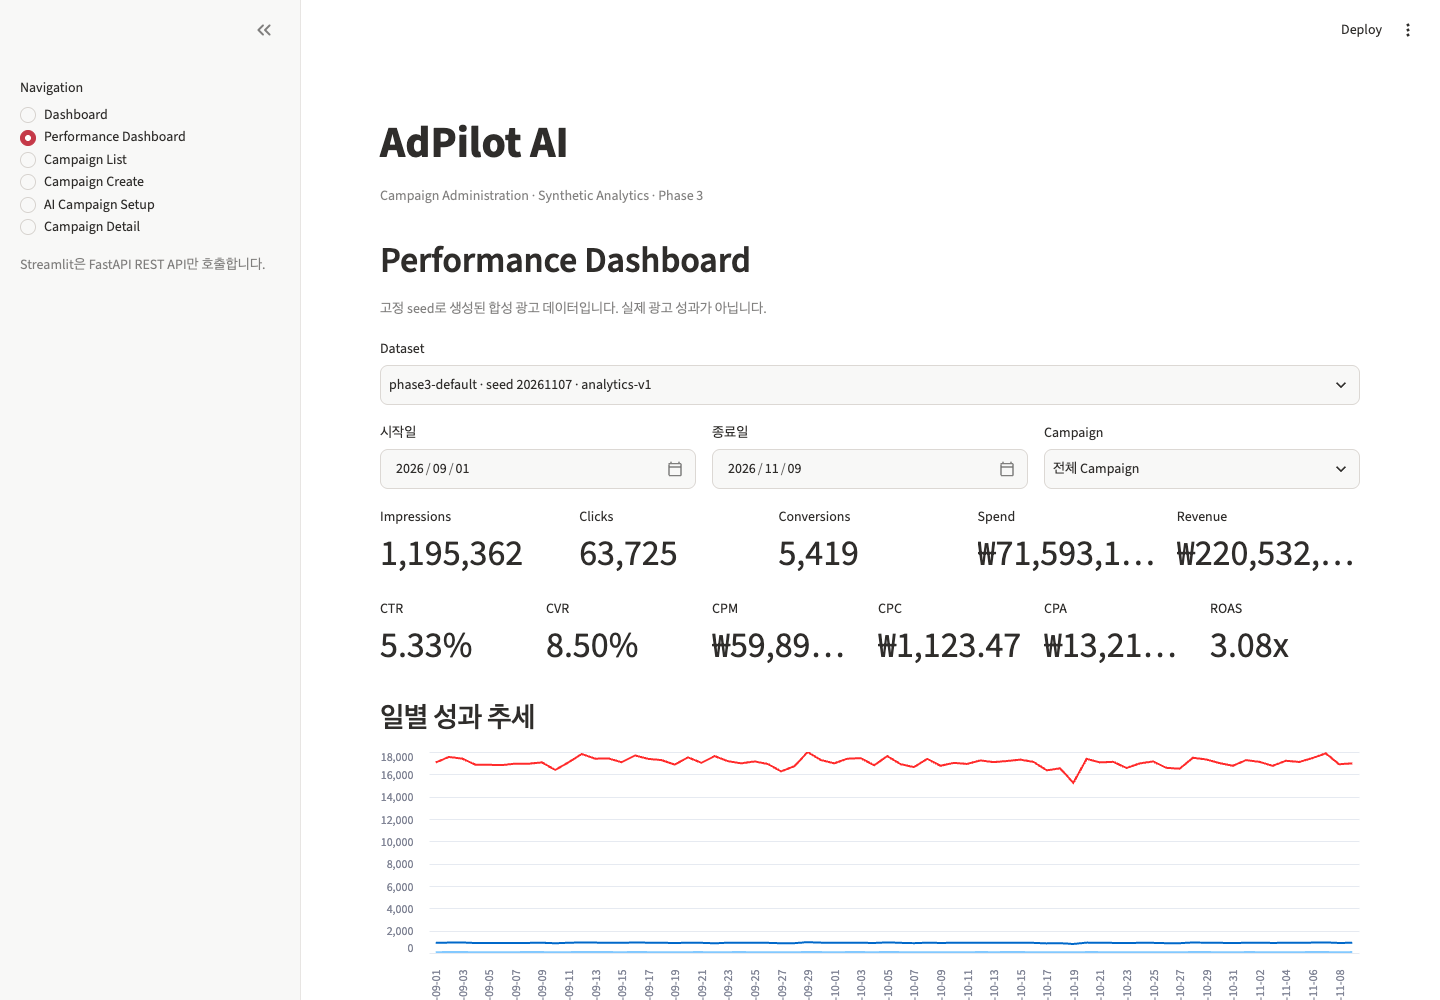
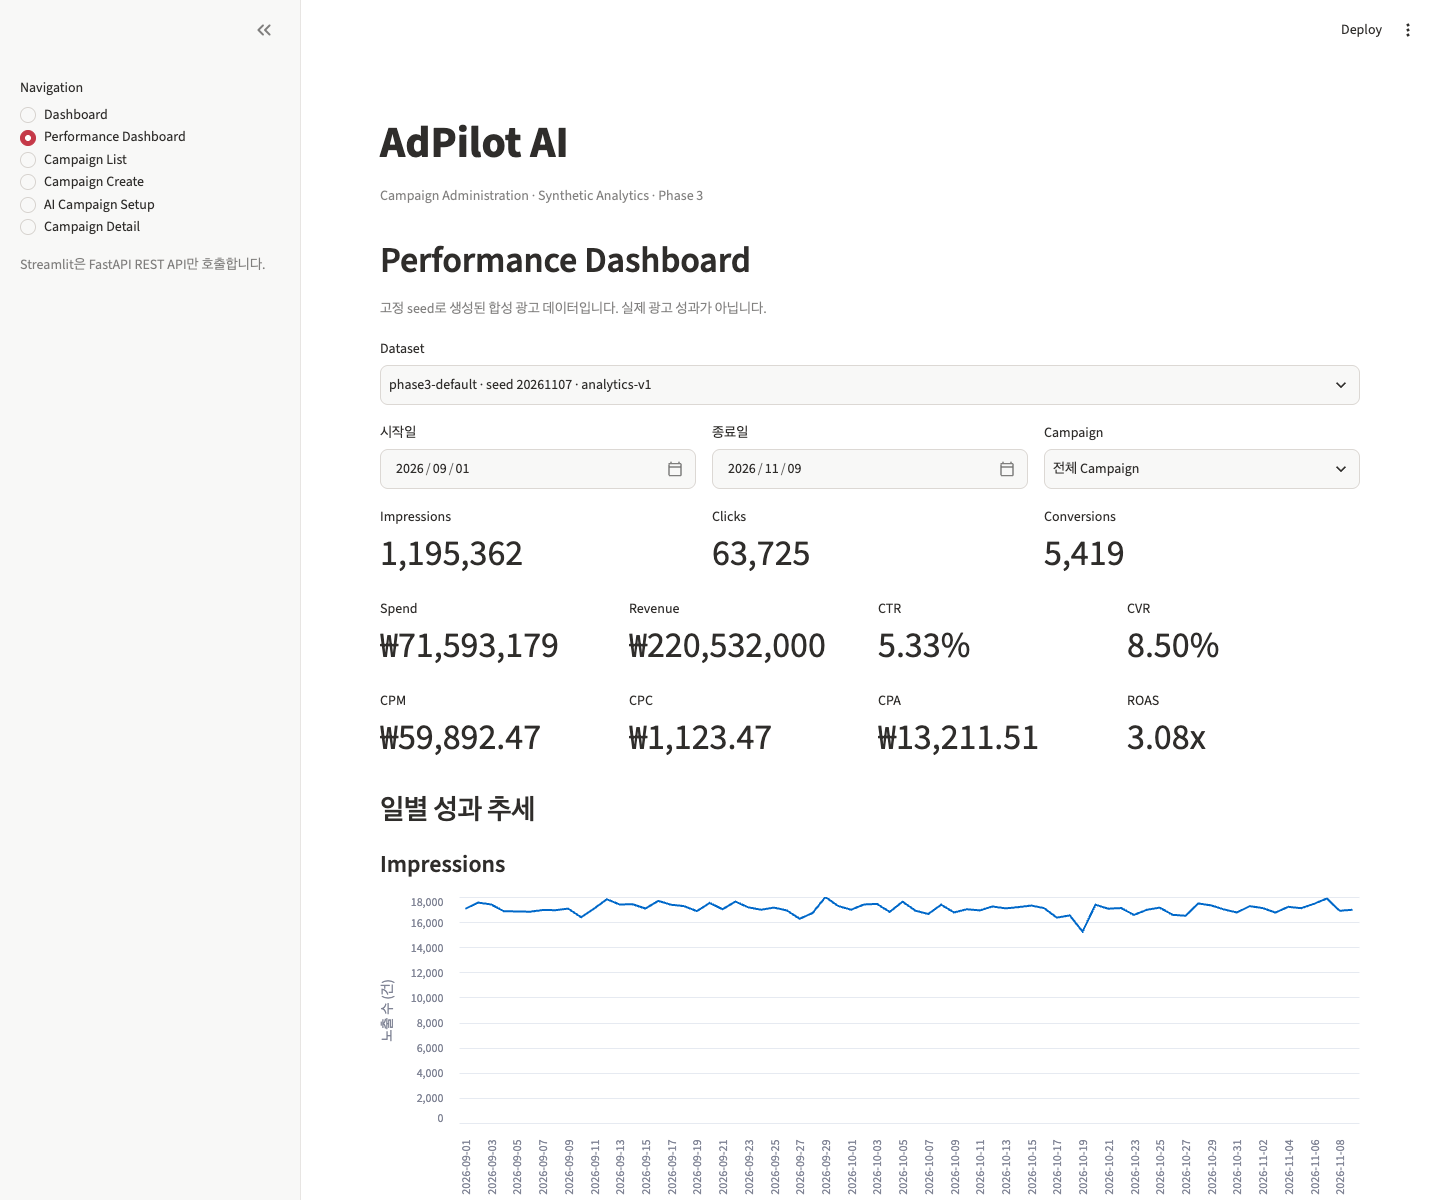
fix: isolate anomaly baselines and improve analytics UI

diff --git a/frontend/views/performance_dashboard.py b/frontend/views/performance_dashboard.py
@@ -1,7 +1,6 @@
 from datetime import date
 from typing import Any
 
-import pandas as pd
 import streamlit as st
 
 from api_client.client import AdPilotApiClient, ApiClientError
@@ -10,14 +9,32 @@ from views.common import show_api_error
 
 def format_nullable(value: float | int | None, *, kind: str) -> str:
     if value is None:
-        return "N/A"
+        return "N/A (분모 0)"
     if kind == "percent":
         return f"{float(value) * 100:.2f}%"
+    if kind == "money_integer":
+        return f"₩{int(value):,}"
     if kind == "money":
         return f"₩{float(value):,.2f}"
     if kind == "ratio":
         return f"{float(value):.2f}x"
     return f"{int(value):,}"
+
+
+def build_timeseries_rows(items: list[dict[str, Any]]) -> list[dict[str, Any]]:
+    return [
+        {
+            "Date": item["date"],
+            "Impressions": item["totals"]["impressions"],
+            "Clicks": item["totals"]["clicks"],
+            "Conversions": item["totals"]["conversions"],
+            "Spend (KRW)": item["totals"]["spend_krw"],
+            "Revenue (KRW)": item["totals"]["revenue_krw"],
+            "CTR (%)": (item["kpis"]["ctr"] * 100 if item["kpis"]["ctr"] is not None else None),
+            "CVR (%)": (item["kpis"]["cvr"] * 100 if item["kpis"]["cvr"] is not None else None),
+        }
+        for item in items
+    ]
 
 
 def build_anomaly_rows(items: list[dict[str, Any]]) -> list[dict[str, Any]]:
@@ -113,42 +130,60 @@ def render_performance_dashboard(client: AdPilotApiClient) -> None:
 def _render_kpis(summary: dict[str, Any]) -> None:
     totals = summary["totals"]
     kpis = summary["kpis"]
-    raw = [
-        ("Impressions", totals["impressions"], "count"),
-        ("Clicks", totals["clicks"], "count"),
-        ("Conversions", totals["conversions"], "count"),
-        ("Spend", totals["spend_krw"], "money"),
-        ("Revenue", totals["revenue_krw"], "money"),
+    rows = [
+        [
+            ("Impressions", totals["impressions"], "count"),
+            ("Clicks", totals["clicks"], "count"),
+            ("Conversions", totals["conversions"], "count"),
+        ],
+        [
+            ("Spend", totals["spend_krw"], "money_integer"),
+            ("Revenue", totals["revenue_krw"], "money_integer"),
+            ("CTR", kpis["ctr"], "percent"),
+            ("CVR", kpis["cvr"], "percent"),
+        ],
+        [
+            ("CPM", kpis["cpm_krw"], "money"),
+            ("CPC", kpis["cpc_krw"], "money"),
+            ("CPA", kpis["cpa_krw"], "money"),
+            ("ROAS", kpis["roas"], "ratio"),
+        ],
     ]
-    derived = [
-        ("CTR", kpis["ctr"], "percent"),
-        ("CVR", kpis["cvr"], "percent"),
-        ("CPM", kpis["cpm_krw"], "money"),
-        ("CPC", kpis["cpc_krw"], "money"),
-        ("CPA", kpis["cpa_krw"], "money"),
-        ("ROAS", kpis["roas"], "ratio"),
-    ]
-    for values in (raw, derived):
+    for values in rows:
         columns = st.columns(len(values))
         for column, (label, value, kind) in zip(columns, values, strict=True):
             column.metric(label, format_nullable(value, kind=kind))
 
 
 def _render_timeseries(items: list[dict[str, Any]]) -> None:
-    rows = [
-        {
-            "date": item["date"],
-            **item["totals"],
-            "ctr_percent": (item["kpis"]["ctr"] * 100 if item["kpis"]["ctr"] is not None else None),
-            "cvr_percent": (item["kpis"]["cvr"] * 100 if item["kpis"]["cvr"] is not None else None),
-        }
-        for item in items
-    ]
-    frame = pd.DataFrame(rows).set_index("date")
+    rows = build_timeseries_rows(items)
     st.subheader("일별 성과 추세")
-    st.line_chart(frame[["impressions", "clicks", "conversions"]])
-    st.line_chart(frame[["spend_krw", "revenue_krw"]])
-    st.line_chart(frame[["ctr_percent", "cvr_percent"]])
+    st.markdown("#### Impressions")
+    st.line_chart(rows, x="Date", y=["Impressions"], x_label="날짜", y_label="노출 수 (건)")
+    st.markdown("#### Clicks / Conversions")
+    st.line_chart(
+        rows,
+        x="Date",
+        y=["Clicks", "Conversions"],
+        x_label="날짜",
+        y_label="건수 (건)",
+    )
+    st.markdown("#### Spend / Revenue")
+    st.line_chart(
+        rows,
+        x="Date",
+        y=["Spend (KRW)", "Revenue (KRW)"],
+        x_label="날짜",
+        y_label="금액 (KRW)",
+    )
+    st.markdown("#### CTR / CVR")
+    st.line_chart(
+        rows,
+        x="Date",
+        y=["CTR (%)", "CVR (%)"],
+        x_label="날짜",
+        y_label="비율 (%)",
+    )
 
 
 def _render_campaign_comparison(items: list[dict[str, Any]]) -> None:

diff --git a/backend/tests/unit/test_analytics_domain.py b/backend/tests/unit/test_analytics_domain.py
@@ -1,4 +1,5 @@
 import uuid
+from dataclasses import replace
 from datetime import date, timedelta
 from decimal import Decimal
 
@@ -15,6 +16,7 @@ from app.domain.analytics import (
 )
 
 RUN_ID = uuid.UUID("10000000-0000-0000-0000-000000000001")
+OTHER_RUN_ID = uuid.UUID("10000000-0000-0000-0000-000000000002")
 CAMPAIGN_ID = uuid.UUID("20000000-0000-0000-0000-000000000001")
 START = date(2026, 9, 1)
 
@@ -27,9 +29,10 @@ def metric(
     conversions: int = 10,
     spend_krw: int = 100_000,
     revenue_krw: int = 300_000,
+    dataset_run_id: uuid.UUID = RUN_ID,
 ) -> MetricValue:
     return MetricValue(
-        dataset_run_id=RUN_ID,
+        dataset_run_id=dataset_run_id,
         campaign_id=CAMPAIGN_ID,
         date=START + timedelta(days=day),
         impressions=impressions,
@@ -121,6 +124,55 @@ def test_detector_holds_when_baseline_or_minimum_sample_is_insufficient() -> Non
     assert AnomalyType.CVR_DROP not in {
         item.anomaly_type for item in detect_anomalies([*normal_baseline, low_click])
     }
+
+
+def test_detector_isolates_same_campaign_uuid_by_dataset_run() -> None:
+    first_run = [metric(index) for index in range(7)]
+    first_run.append(metric(7, clicks=20, conversions=2))
+    second_run = [metric(index, dataset_run_id=OTHER_RUN_ID) for index in range(8)]
+
+    ctr_detections = [
+        item
+        for item in detect_anomalies([*first_run, *second_run])
+        if item.anomaly_type is AnomalyType.CTR_DROP
+    ]
+
+    assert [(item.dataset_run_id, item.campaign_id) for item in ctr_detections] == [
+        (RUN_ID, CAMPAIGN_ID)
+    ]
+
+
+def test_anomaly_in_one_dataset_does_not_change_other_dataset_result() -> None:
+    stable_run = [metric(index) for index in range(8)]
+    changed_run = [metric(index, dataset_run_id=OTHER_RUN_ID) for index in range(7)]
+    changed_run.append(metric(7, spend_krw=200_000, dataset_run_id=OTHER_RUN_ID))
+
+    spend_detections = [
+        item
+        for item in detect_anomalies([*stable_run, *changed_run])
+        if item.anomaly_type is AnomalyType.SPEND_SPIKE
+    ]
+
+    assert [item.dataset_run_id for item in spend_detections] == [OTHER_RUN_ID]
+
+
+def test_detector_requires_seven_contiguous_prior_calendar_days() -> None:
+    baseline_with_gap = [metric(index) for index in (0, 1, 2, 3, 4, 5, 7)]
+    current = metric(8, clicks=20, conversions=2)
+
+    assert detect_anomalies([*baseline_with_gap, current]) == []
+
+
+def test_detector_keeps_seven_day_baseline_across_year_boundary() -> None:
+    year_end_start = date(2026, 12, 25)
+    metrics = [
+        replace(metric(index), date=year_end_start + timedelta(days=index)) for index in range(7)
+    ]
+    current = replace(metric(7, clicks=20, conversions=2), date=date(2027, 1, 1))
+
+    detections = detect_anomalies([*metrics, current])
+
+    assert AnomalyType.CTR_DROP in {item.anomaly_type for item in detections}
 
 
 def test_evaluation_counts_tp_fp_fn_and_zero_denominators() -> None:

diff --git a/frontend/tests/test_api_client.py b/frontend/tests/test_api_client.py
@@ -19,7 +19,7 @@ from views.ai_campaign_setup import (
     complete_saved_draft,
 )
 from views.common import format_budget, parse_targeting
-from views.performance_dashboard import build_anomaly_rows, format_nullable
+from views.performance_dashboard import build_anomaly_rows, build_timeseries_rows, format_nullable
 
 
 def response(
@@ -277,8 +277,9 @@ def test_analytics_client_uses_dataset_campaign_and_date_filters() -> None:
 
 
 def test_performance_dashboard_helpers_show_null_and_anomaly_contract() -> None:
-    assert format_nullable(None, kind="percent") == "N/A"
+    assert format_nullable(None, kind="percent") == "N/A (분모 0)"
     assert format_nullable(0.1234, kind="percent") == "12.34%"
+    assert format_nullable(71_593_179, kind="money_integer") == "₩71,593,179"
     assert format_nullable(1234.5, kind="money") == "₩1,234.50"
     rows = build_anomaly_rows(
         [
@@ -295,3 +296,34 @@ def test_performance_dashboard_helpers_show_null_and_anomaly_contract() -> None:
     )
     assert rows[0]["Type"] == "CTR_DROP"
     assert rows[0]["Change"] == "60.0%"
+
+
+def test_performance_dashboard_timeseries_rows_keep_units_and_null_rates() -> None:
+    rows = build_timeseries_rows(
+        [
+            {
+                "date": "2026-09-01",
+                "totals": {
+                    "impressions": 100,
+                    "clicks": 0,
+                    "conversions": 0,
+                    "spend_krw": 1_000,
+                    "revenue_krw": 0,
+                },
+                "kpis": {"ctr": 0.0, "cvr": None},
+            }
+        ]
+    )
+
+    assert rows == [
+        {
+            "Date": "2026-09-01",
+            "Impressions": 100,
+            "Clicks": 0,
+            "Conversions": 0,
+            "Spend (KRW)": 1_000,
+            "Revenue (KRW)": 0,
+            "CTR (%)": 0.0,
+            "CVR (%)": None,
+        }
+    ]

diff --git a/backend/app/domain/analytics.py b/backend/app/domain/analytics.py
@@ -110,9 +110,9 @@ def round_money(value: Decimal | None) -> Decimal | None:
 
 
 def detect_anomalies(metrics: Iterable[MetricValue]) -> list[AnomalyDetection]:
-    grouped: dict[uuid.UUID, list[MetricValue]] = defaultdict(list)
+    grouped: dict[tuple[uuid.UUID, uuid.UUID], list[MetricValue]] = defaultdict(list)
     for metric in metrics:
-        grouped[metric.campaign_id].append(metric)
+        grouped[(metric.dataset_run_id, metric.campaign_id)].append(metric)
 
     detections: list[AnomalyDetection] = []
     for campaign_metrics in grouped.values():

diff --git a/docs/decisions.md b/docs/decisions.md
@@ -117,3 +117,11 @@ KPI는 원시 합계를 먼저 합산한 뒤 `Decimal`로 계산한다. CTR=`cli
 `anomaly_truth_labels`는 생성 시 주입한 정답만 저장하고 detector는 이를 읽지 않는다. truth가 없는 `(run, campaign, date, type)` 조합은 평가에서 negative다. detector 결과는 threshold나 version 변경 시 stale 상태를 피하기 위해 저장하지 않고 원시 metric에서 요청 시 계산한다. 평가 runner만 truth와 detector key를 비교하며 precision/recall/F1의 분모가 0이면 `null`로 반환한다.
 
 Phase 4가 재사용할 read-only 계약은 `synthetic_dataset_runs`, `campaigns`의 합성 소유 FK, `daily_ad_metrics` 원시 정수와 공개 analytics 조회 응답이다. truth label은 평가 전용이며 제품 anomaly API나 향후 Analyst의 사실 데이터로 노출하지 않는다. PostgreSQL 단일 저장소를 유지하고 microservice, Kafka, Redis, DuckDB는 도입하지 않는다.
+
+## ADR-019: Anomaly baseline 격리와 Dashboard chart data 최소화
+
+선택: `rules-v1` detector의 그룹 키를 `campaign_id` 단독이 아닌 `(dataset_run_id, campaign_id)`로 사용한다. 동일한 Campaign UUID가 여러 합성 dataset에 존재해도 날짜 맵, 7일 baseline과 detection은 run 경계를 넘지 않는다. 임계값, 최소 표본, 정확한 이전 7 calendar day, truth 비참조 정책은 변경하지 않는다.
+
+Performance Dashboard의 KPI는 3개 행으로 나누고 Spend/Revenue는 원화 정수, 비용형 KPI는 소수점 둘째 자리로 표시한다. 추세는 Impressions, Clicks/Conversions, Spend/Revenue, CTR/CVR 네 그래프로 분리한다. Frontend는 직접 `pandas`를 import하지 않고 list-of-records를 Streamlit chart API에 전달한다.
+
+대안: `pandas`를 frontend optional dependency로 명시하는 방법도 가능하지만 현재 변환은 단순 필드 매핑이라 DataFrame 연산이 필요하지 않다. 직접 사용을 제거하면 공개 dependency가 줄고 Streamlit 내부 dependency 버전에 대한 암묵적 결합도 사라진다. 데이터 변환이 복잡해질 때만 명시적 pandas 도입을 다시 검토한다.

diff --git a/README.md b/README.md
@@ -212,7 +212,9 @@ curl 'http://localhost:8000/api/v1/analytics/anomalies?dataset_run_id={dataset_i
 
 KPI는 원시 합계를 먼저 더한 뒤 `CTR=clicks/impressions`, `CVR=conversions/clicks`, `CPM=spend/impressions×1000`, `CPC=spend/clicks`, `CPA=spend/conversions`, `ROAS=revenue/spend`로 계산합니다. 분모가 0이면 `0`을 만들지 않고 `null`을 반환합니다. 기간은 양 끝 날짜를 포함하며 최대 366일입니다.
 
-`rules-v1`은 각 Campaign의 정확한 이전 7개 calendar day를 baseline으로 사용합니다. CTR 60% 이하, CVR 50% 이하, spend 180% 이상, impressions 50% 이하를 각각 탐지하되 최소 노출/클릭과 0 baseline guard를 적용합니다. 기본 합성 truth 4건에 대한 실제 회귀 실행 결과는 TP 4, FP 0, FN 0, precision/recall/F1 1.0입니다. 이는 의도적으로 만든 합성 데이터 회귀 결과이며 실제 광고 운영 정확도를 의미하지 않습니다.
+`rules-v1`은 `(dataset_run_id, campaign_id)`별로 격리한 정확한 이전 7개 calendar day를 baseline으로 사용합니다. 같은 Campaign UUID가 다른 합성 dataset에 있어도 baseline을 공유하지 않습니다. CTR 60% 이하, CVR 50% 이하, spend 180% 이상, impressions 50% 이하를 각각 탐지하되 최소 노출/클릭과 0 baseline guard를 적용합니다. 기본 합성 truth 4건에 대한 실제 회귀 실행 결과는 TP 4, FP 0, FN 0, precision/recall/F1 1.0입니다. 이는 의도적으로 만든 합성 데이터 회귀 결과이며 실제 광고 운영 정확도를 의미하지 않습니다.
+
+Performance Dashboard는 KPI를 세 행으로 나눠 큰 KRW 합계가 잘리지 않게 표시하고, Spend/Revenue는 원화 정수, CPM/CPC/CPA는 소수점 둘째 자리까지 표시합니다. 일별 추세는 Impressions, Clicks/Conversions, Spend/Revenue, CTR/CVR 네 그래프로 분리해 단위와 스케일을 구분합니다. Frontend는 직접 `pandas`를 사용하지 않고 Streamlit의 chart data contract에 list-of-records를 전달합니다.
 
 ## 환경 변수
 

diff --git a/docs/architecture.md b/docs/architecture.md
@@ -53,7 +53,9 @@ LangGraph는 입력 텍스트 유무를 판단하는 시작 conditional edge, `e
 
 고정 seed generator → dataset run과 소유 Campaign → 일별 raw metric → FastAPI application service → 결정론적 KPI/규칙 detector → Streamlit REST client 순서다. KPI는 Campaign·기간의 raw 합계를 먼저 집계한 뒤 계산하며 0 분모는 `null`이다. 조회 기간은 inclusive, 최대 366일이고 Campaign 필터는 선택한 dataset 소유 여부를 검사한다.
 
-`rules-v1` detector는 현재일을 제외한 정확한 이전 7 calendar day를 Campaign별 baseline으로 사용한다. `anomaly_truth_labels`는 generator와 평가 runner만 읽으며, 제품의 `/analytics/anomalies`는 raw metric으로 매 요청 계산한 detection만 반환한다. 따라서 정답을 결과로 노출하거나 detector가 정답을 참조하지 않는다.
+`rules-v1` detector는 현재일을 제외한 정확한 이전 7 calendar day를 `(dataset_run_id, campaign_id)`별 baseline으로 사용한다. Campaign UUID가 우연히 같아도 서로 다른 dataset run의 metric은 같은 날짜 맵이나 baseline에 들어가지 않는다. `anomaly_truth_labels`는 generator와 평가 runner만 읽으며, 제품의 `/analytics/anomalies`는 raw metric으로 매 요청 계산한 detection만 반환한다. 따라서 정답을 결과로 노출하거나 detector가 정답을 참조하지 않는다.
+
+Performance Dashboard는 FastAPI 응답을 list-of-records chart data로 변환해 Streamlit에 전달한다. Frontend 코드가 `pandas`를 직접 import하지 않아 Streamlit의 transitive dependency를 프로젝트 API처럼 취급하지 않는다. KPI는 3개 행, 추세는 4개 단위별 그래프로 나누며 계산식은 계속 Backend domain에만 둔다.
 
 ### AI Performance Analyst (Phase 4, 미구현)
 

diff --git a/docs/roadmap.md b/docs/roadmap.md
@@ -18,7 +18,7 @@
 
 ## Phase 3 — Advertising Analytics
 
-**완료.** 70일·6 Campaign·420행의 seed 고정 합성 데이터와 별도 anomaly truth label, raw-first KPI service/API, Streamlit Performance Dashboard, 7일 baseline 규칙 detector를 구현했다. seed 재현성, 0 나눗셈 `null`, DB 제약·소유 데이터 교체, dataset/Campaign/기간 필터, known anomaly 4건의 precision/recall/F1 회귀를 단위·API·PostgreSQL 통합 테스트와 실제 Docker 환경에서 검증했다.
+**완료.** 70일·6 Campaign·420행의 seed 고정 합성 데이터와 별도 anomaly truth label, raw-first KPI service/API, Streamlit Performance Dashboard, 7일 baseline 규칙 detector를 구현했다. seed 재현성, 0 나눗셈 `null`, DB 제약·소유 데이터 교체, dataset/Campaign/기간 필터, known anomaly 4건의 precision/recall/F1 회귀를 단위·API·PostgreSQL 통합 테스트와 실제 Docker 환경에서 검증했다. 안정화 단계에서 anomaly baseline을 dataset run과 Campaign의 복합 키로 격리하고 KPI·추세 화면의 가독성을 개선했다.
 
 ## Phase 4 — AI Performance Analyst
 
